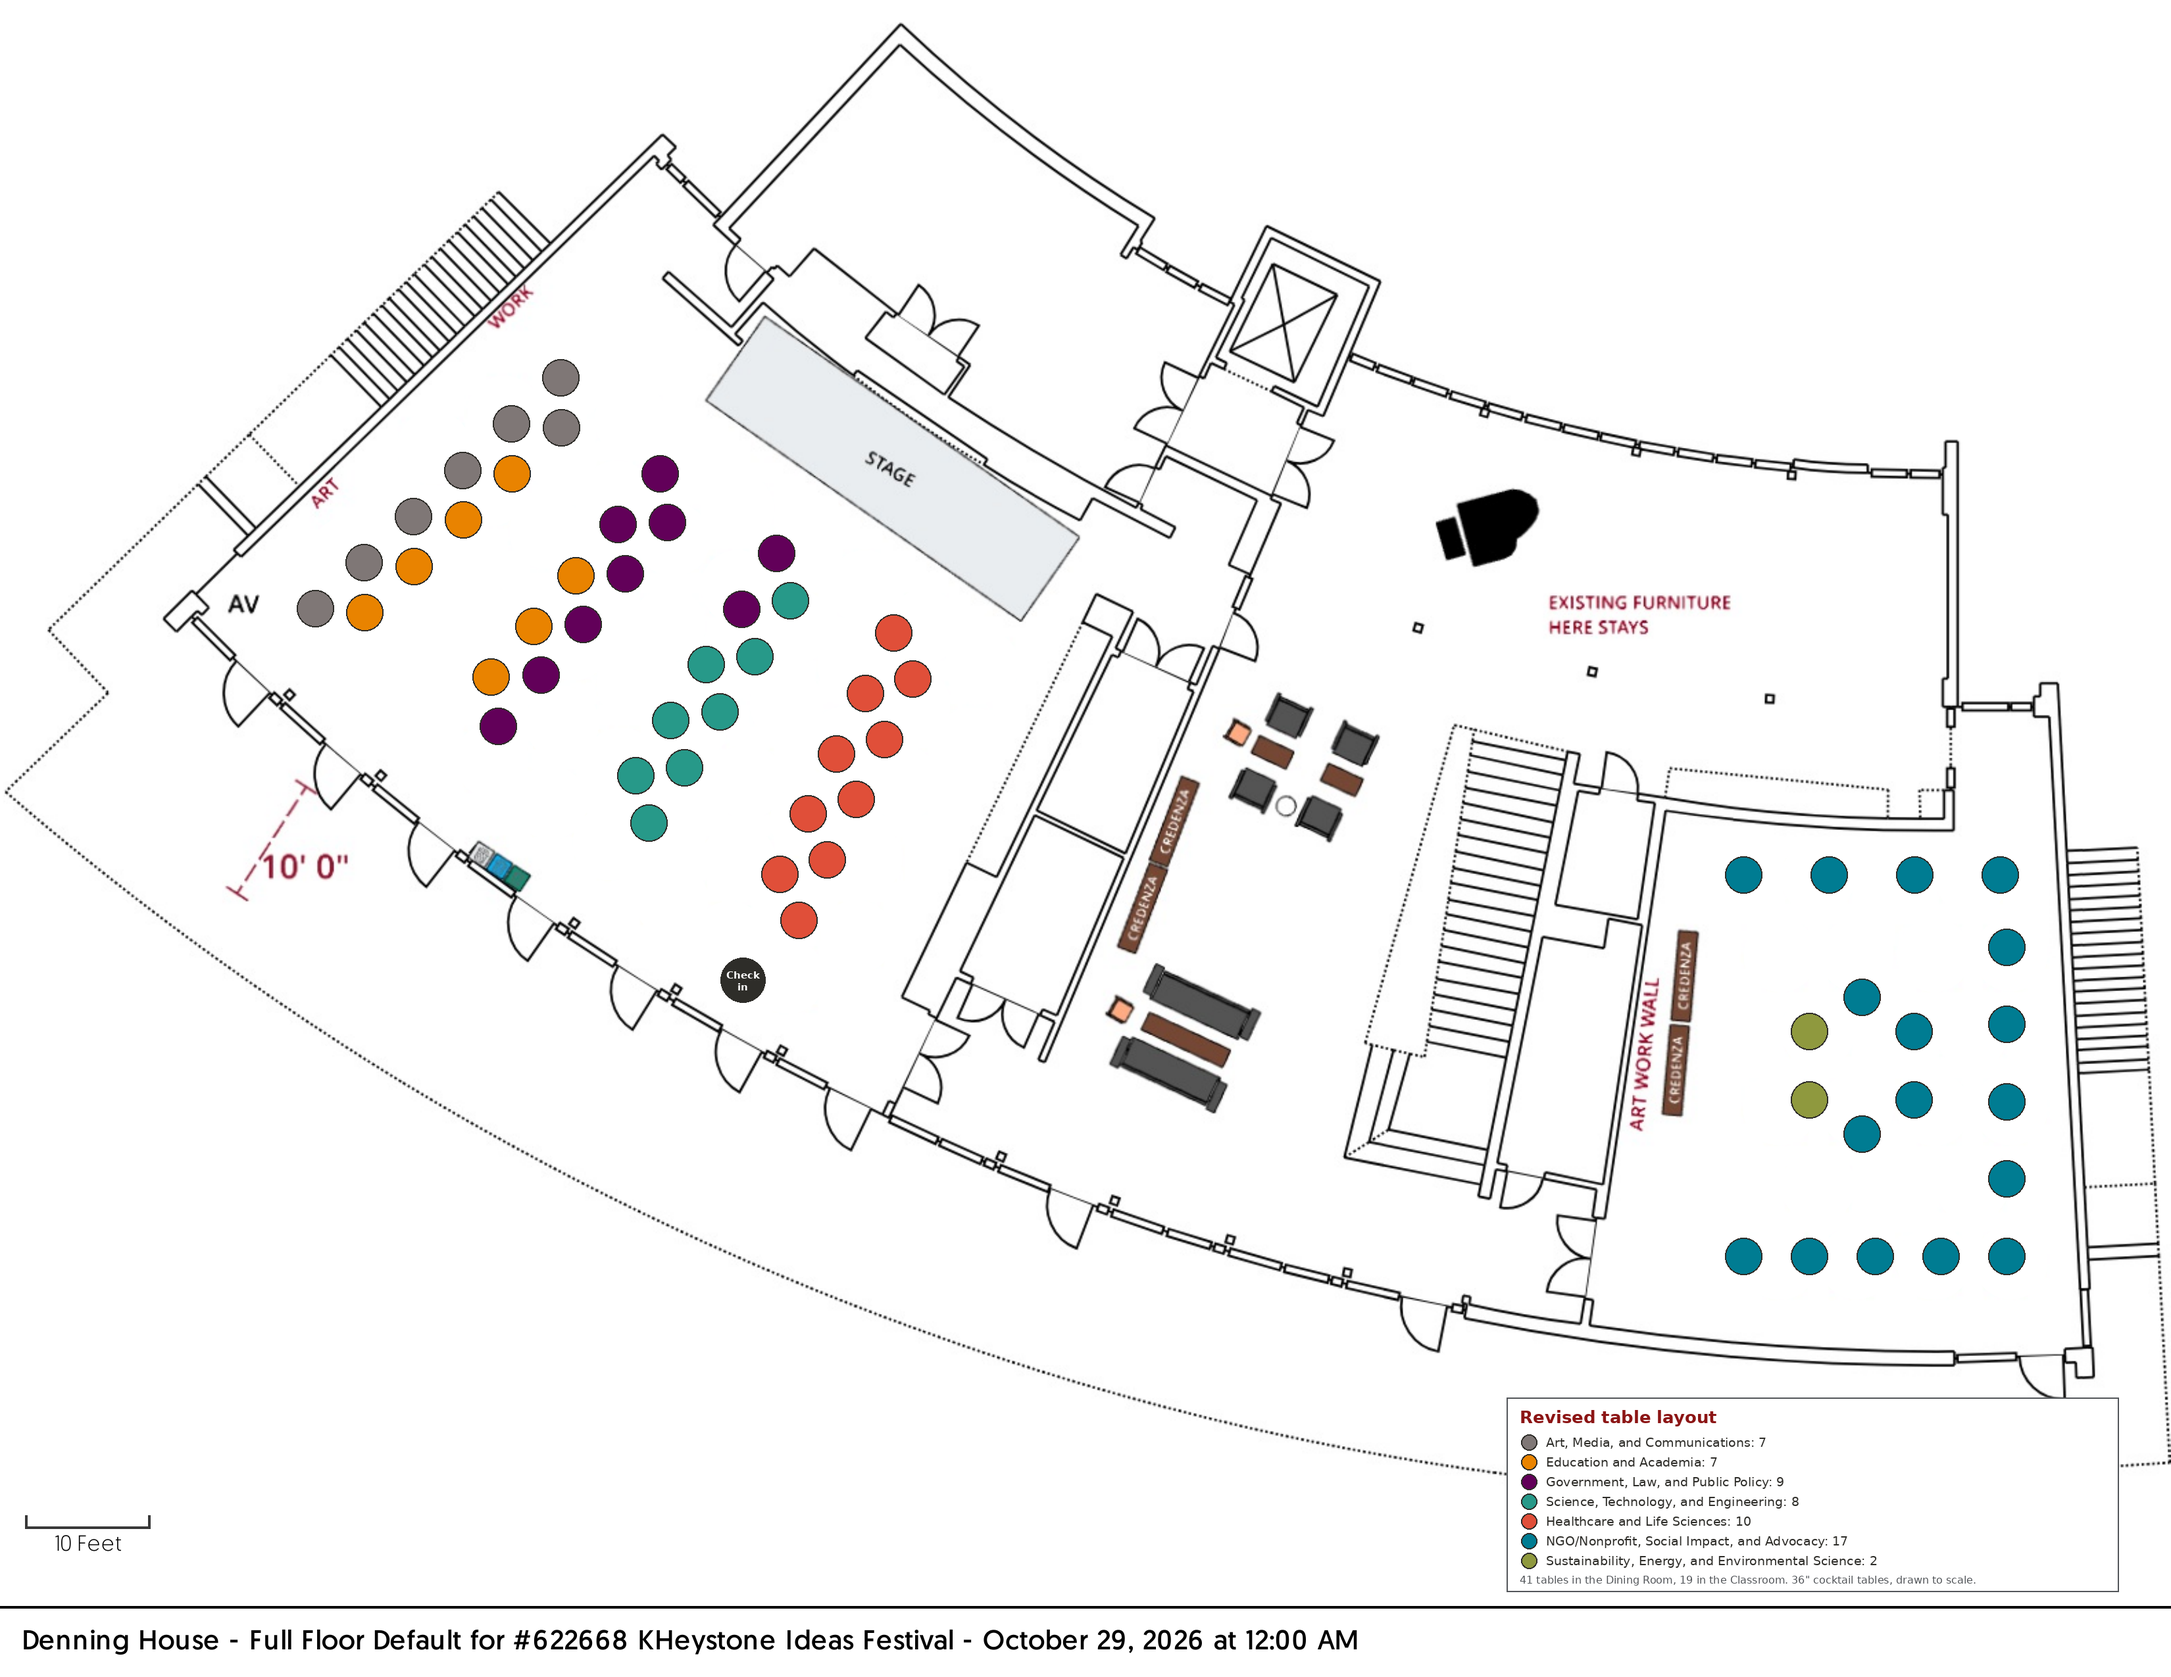
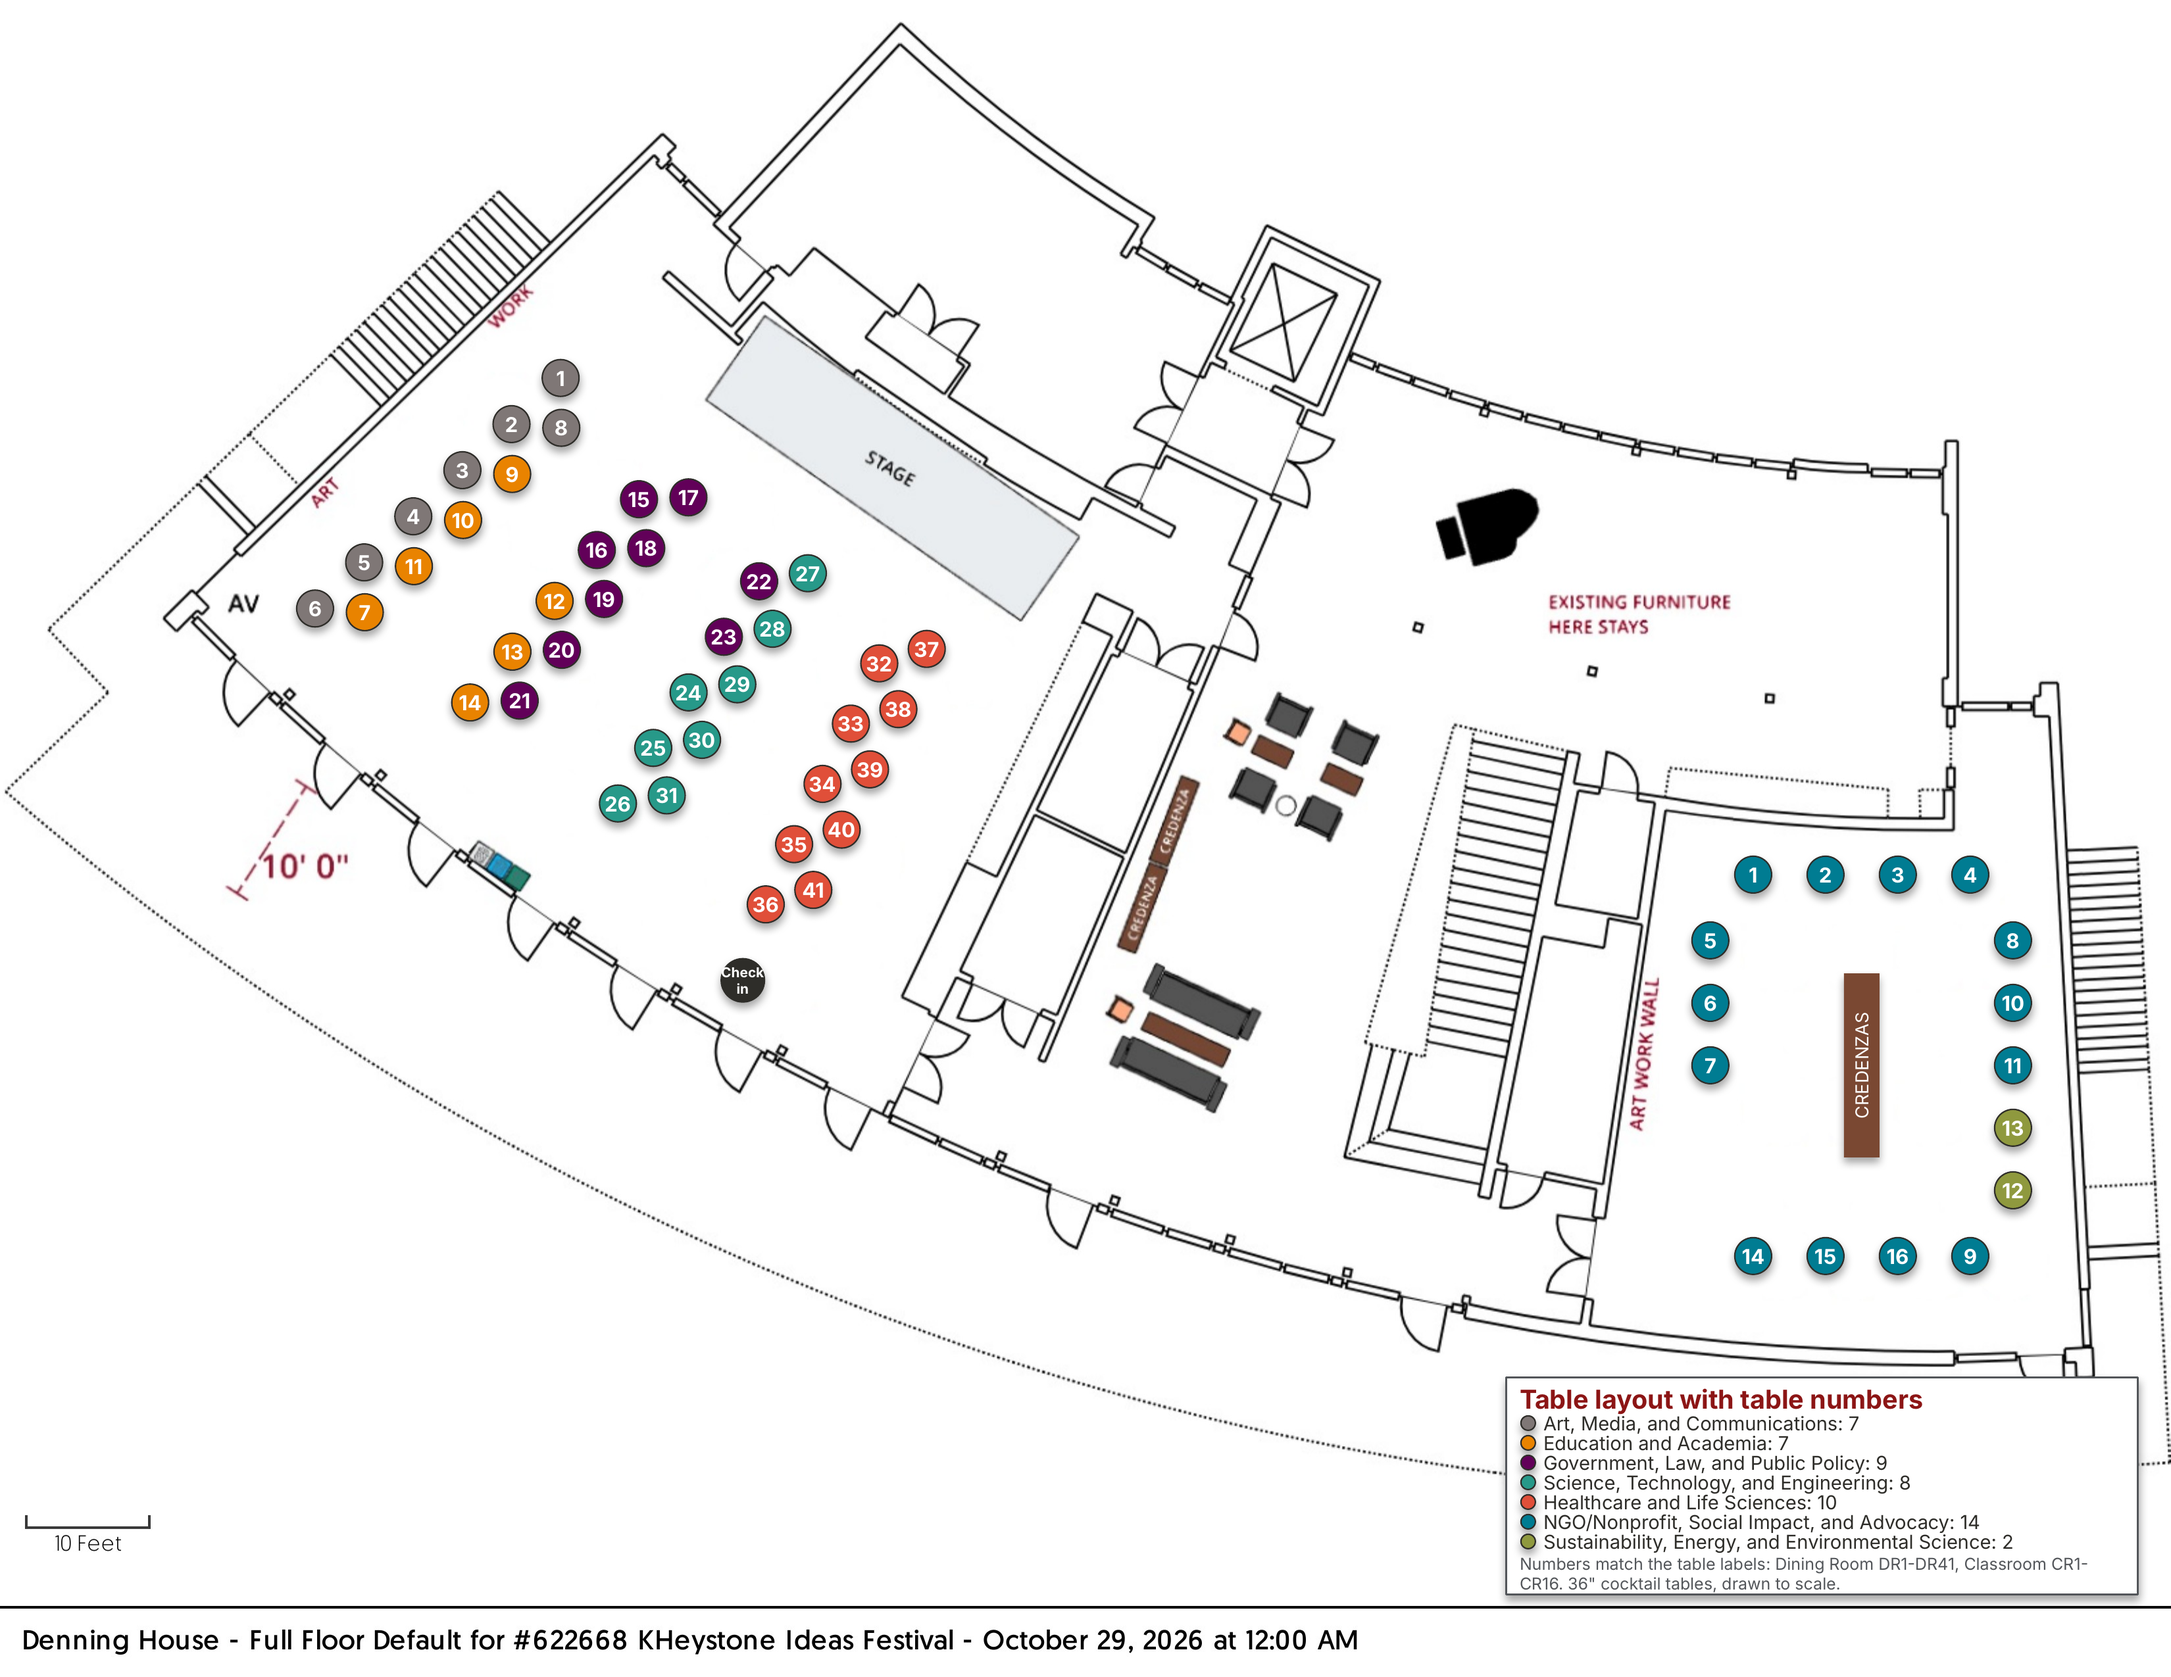
Add files via upload
final table assignments

diff --git a/index.html b/index.html
@@ -128,11 +128,27 @@ article h2{font-family:var(--sans);font-weight:600;font-size:clamp(30px,4.4vw,42
 .legend span{display:inline-flex;gap:8px;align-items:center}
 @media (max-width:560px){body{font-size:16px}main .wrap{padding-block:20px 48px}.jump{gap:0}.jump a,.jump span{min-width:calc(100% / 13);height:36px}.intro{margin-bottom:20px}.lede{font-size:19px}.desc{font-size:17px}.pager{grid-template-columns:1fr}.pager .next{text-align:left}}
 @media (prefers-reduced-motion:no-preference){main{animation:fade .18s ease-out}@keyframes fade{from{opacity:.4}to{opacity:1}}}
-.connect{display:flex;flex-wrap:wrap;align-items:center;gap:10px 16px;margin:18px 0 22px}
-.connect-btn{display:inline-block;background:var(--cardinal);color:#fff!important;text-decoration:none;font-weight:600;font-size:17px;padding:12px 22px;border-radius:6px}
-.connect-btn:hover,.connect-btn:focus-visible{background:#6f1010}
-.connect span{font-size:15px;color:var(--cool-gray);flex:1 1 220px}
-@media (max-width:560px){.connect-btn{display:block;width:100%;text-align:center}}
+.connect{display:flex;flex-wrap:wrap;align-items:center;gap:8px 14px;margin:16px 0 22px}
+.connect-btn{display:inline-flex;align-items:center;gap:8px;color:#fff!important;text-decoration:none;font-weight:700;font-size:15px;line-height:1.2;padding:8px 14px 8px 16px;border-radius:999px;
+  background:linear-gradient(90deg,#007C92,#279989,#E04F39,#E98300,#007C92);background-size:300% 100%;animation:cflow 8s linear infinite;text-shadow:0 1px 1px rgba(0,0,0,.25)}
+.connect-btn svg{width:16px;height:16px;flex:none;animation:cnudge 2.4s ease-in-out infinite}
+.connect-btn:hover{filter:brightness(.92)}
+.connect-btn:focus-visible{outline:3px solid #E98300;outline-offset:2px}
+@keyframes cflow{to{background-position:300% 0}}
+@keyframes cnudge{0%,60%,100%{transform:none}70%{transform:translateX(4px)}80%{transform:none}90%{transform:translateX(3px)}}
+@media (prefers-reduced-motion:reduce){.connect-btn,.connect-btn svg{animation:none}}
+.connect span{font-size:14px;color:var(--cool-gray);flex:1 1 200px}
+.gloss{margin-top:32px}
+.gloss h2{font-size:24px;margin:0 0 4px}
+.gloss h3{font-size:17px;margin:18px 0 8px;color:var(--cool-gray)}
+.gtabs{display:flex;gap:8px;margin:12px 0 14px}
+.gtabs button{font:inherit;font-size:15px;font-weight:600;padding:6px 14px;border-radius:999px;border:1px solid var(--line);background:#fff;color:var(--black);cursor:pointer}
+.gtabs button.on{background:var(--black);color:#fff;border-color:var(--black)}
+.glist{list-style:none;margin:0;padding:0;columns:3 260px;column-gap:28px}
+.glist li{break-inside:avoid;margin:0 0 6px}
+.glist a{display:flex;align-items:baseline;gap:10px;color:var(--black);text-decoration:none;line-height:1.3;padding:3px 0}
+.glist a:hover .tnm{color:var(--cardinal);text-decoration:underline}
+.tno{flex:none;min-width:54px;text-align:center;font-weight:700;font-size:14px;color:#fff;background:var(--cc);border-radius:999px;padding:2px 8px}
 </style>
 </head>
 <body>
@@ -175,6 +191,7 @@ article h2{font-family:var(--sans);font-weight:600;font-size:clamp(30px,4.4vw,42
   const seen = {};
   P.forEach(p=>{ let s=slugify(p.t); if(seen[s]) s+='-'+(++seen[s]); else seen[s]=1; p.id=s; });
   const BY_ID = Object.fromEntries(P.map(p=>[p.id,p]));
+  const STN = {"Backcurrent Innovation": "DR32", "Beyond Combustion: Methane to Materials": "CR12", "Beyond Degrees: Closing the Racial Wealth Gap Through Higher Education": "DR14", "Beyond the Fields: The Lives Behind Our Food": "CR15", "BioSentinel - Biosafety in the age AI": "DR33", "Cards 4 Kids": "DR34", "Clean Closet: Explorations in Affordable, Non-Toxic, Sustainable Fashion": "CR13", "D.Sole Foundation: Diabetic Footcare for Underserved Communities": "CR3", "Deep Cuts": "DR24", "Despegar Fellows": "DR9", "Dialekt": "CR4", "EconStats.org": "DR16", "epidemiKH": "DR36", "Equal Depths": "CR2", "Every Phase: Supporting Mothers Through Change": "DR37", "Exploring Vaccine Hesitancy in the Perinatal Period": "CR5", "Field of View": "DR1", "First Teachers": "DR10", "Global Neurosurgery Collaborative": "CR6", "GOAL @ Stanford: Gyn/Ob Advocacy Lab": "DR38", "Hardening Critical Infrastructure: Lessons from Ukraine": "DR27", "Ideas That Travel": "DR2", "Improving Birth Outcomes through Multiomic and Vaginal Microbiome Profiling": "DR39", "Infrastructure for Her: Advancing Gender-Responsive Mobility in Monterrey, Mexico": "DR15", "Intelligence KHollective": "DR23", "Intersex Community Health Coalition": "DR40", "KHnowledge & Policy": "DR17", "Know Your Water": "DR18", "Learn to Discern: Building Educational Tools to Teach Digitial Literacy Skills in the Age of AI": "CR16", "Life and Career Design for High School Students": "DR11", "Local AI Lab": "DR26", "MedBridge: Building Physician–Scientists in the Americas": "CR7", "Mentorship in Academia Project": "DR12", "Mind Matters: Empowering Teachers for Youth Mental": "DR13", "Neurodiversity Network": "CR1", "Next Play": "DR31", "Ojos del Mar": "CR8", "Post-Status: Migrant Justice in the Era of Delegalization": "CR10", "Project Shire": "DR28", "Rethinking Digital Life": "DR29", "Science Communication with Art and Music (SCAM)": "DR4", "Secure & Local AI for Legal Aid Nonprofits": "DR19", "SHTEM Summer Program (Science and Humanities)": "CR9", "Stanford Carceral Health Advocacy Initiative": "CR11", "Stanford Housing Equity Project": "CR14", "Surge On!: Capacity Building for Reconstructive Surgery in Subsaharan Africa": "DR41", "The AI Trust Stack": "DR20", "The Campus Survivors Project": "DR7", "The Deservedness Project": "DR5", "The Mitigation Project": "DR21", "The Traumatic Injury Collaborative": "DR35", "Through Their Eyes: Pediatric Photography Project": "DR6", "Tiny Pharma": "DR30", "Varieties of Cyborg Experience": "DR8", "vidyoo.ai | A Democratized Data Collection Platform": "DR25", "Warmth Through Words": "DR3", "Who Gets Space?": "DR22"};
   const sortKey = t => t.normalize('NFD').replace(/[\u0300-\u036f]/g,'').toLowerCase();
   const AZ = P.slice().sort((a,b)=>sortKey(a.t).localeCompare(sortKey(b.t)));
   const firstLetter = p => { const c=sortKey(p.t).charAt(0).toUpperCase(); return /[A-Z]/.test(c)?c:'#'; };
@@ -244,6 +261,7 @@ article h2{font-family:var(--sans);font-weight:600;font-size:clamp(30px,4.4vw,42
     const rows=[];
     if(p.p) rows.push(['Project manager', person({...p.p, u:p.u})]);
     if(p.f&&p.f.length) rows.push([p.f.length>1?'Founders':'Founder', p.f.map(f=>person(p.p&&f.n===p.p.n?{...f,u:p.u}:f)).join('')]);
+    if(STN[p.t]) rows.push(['Ideas Festival table', `<a href="#table-map">${esc(STN[p.t])}</a><span class="yr">${STN[p.t].startsWith('DR')?'Dining Room':'Classroom'}</span>`]);
     if(p.e) rows.push(['Established', esc(p.e)]);
     return rows.length?`<dl class="facts">${rows.map(([k,v])=>`<div><dt>${k}</dt><dd>${v}</dd></div>`).join('')}</dl>`:'';
   }
@@ -254,7 +272,7 @@ article h2{font-family:var(--sans);font-weight:600;font-size:clamp(30px,4.4vw,42
         <a class="chip" href="#"><span class="dot" aria-hidden="true"></span>${esc(p.c)}</a>
         <h2>${esc(p.t)}</h2>
         ${p.s?`<p class="lede">${esc(p.s)}</p>`:''}
-        <p class="connect"><a class="connect-btn" href="https://docs.google.com/forms/d/e/1FAIpQLSdd0upfXTFJkC5SKX7fuA5PVN0JAlwXkIegBchWx8dLi4Je-A/viewform?usp=pp_url&entry.173286245=${encodeURIComponent(p.t)}" target="_blank" rel="noopener">Connect with this project</a><span>Interested in mentoring or joining? Share your contact info with the project team.</span></p>
+        <p class="connect"><a class="connect-btn" href="https://docs.google.com/forms/d/e/1FAIpQLSdd0upfXTFJkC5SKX7fuA5PVN0JAlwXkIegBchWx8dLi4Je-A/viewform?usp=pp_url&entry.173286245=${encodeURIComponent(p.t)}" target="_blank" rel="noopener">Connect with this project <svg viewBox="0 0 16 16" fill="none" stroke="currentColor" stroke-width="2" stroke-linecap="round" stroke-linejoin="round" aria-hidden="true"><path d="M3 8h9M8.5 4.5 12 8l-3.5 3.5"/></svg></a><span>Mentor, join, or partner with the team.</span></p>
         ${facts(p)}
         ${p.d?`<p class="label">About the project</p><div class="desc">${paras(p.d)}</div>`:''}
         ${p.n?`<p class="label">Skills the team is looking for</p><div class="desc">${paras(p.n)}</div>`:''}
@@ -262,13 +280,31 @@ article h2{font-family:var(--sans);font-weight:600;font-size:clamp(30px,4.4vw,42
       </article>
       <nav class="pager" aria-label="More projects">${prev?`<a href="#${prev.id}"><small>Previous</small><span>${esc(prev.t)}</span></a>`:'<span></span>'}${next?`<a class="next" href="#${next.id}"><small>Next</small><span>${esc(next.t)}</span></a>`:''}</nav>`;
   }
+
+  function glossary(){
+    const items=AZ.filter(p=>STN[p.t]);
+    const num=s=>(s.startsWith('DR')?0:1000)+parseInt(s.slice(2));
+    const li=p=>`<li><a href="#${p.id}"><span class="tno" style="--cc:${cc(p.c)}">${esc(STN[p.t])}</span><span class="tnm">${esc(p.t)}</span></a></li>`;
+    const byRoom=(pre)=>items.filter(p=>STN[p.t].startsWith(pre)).sort((a,b)=>num(STN[a.t])-num(STN[b.t]));
+    return `<section class="gloss"><h2>Find a table</h2><p class="note">${items.length} project tables. Select a project to open its page.</p>
+      <div class="gtabs" role="tablist"><button type="button" class="on" data-g="az">A to Z</button><button type="button" data-g="num">By table number</button></div>
+      <div data-gv="az"><ul class="glist">${items.map(li).join('')}</ul></div>
+      <div data-gv="num" hidden><h3>Dining Room</h3><ul class="glist">${byRoom('DR').map(li).join('')}</ul><h3>Classroom</h3><ul class="glist">${byRoom('CR').map(li).join('')}</ul></div></section>`;
+  }
+  function wireGloss(){
+    document.querySelectorAll('.gtabs button').forEach(b=>b.addEventListener('click',()=>{
+      document.querySelectorAll('.gtabs button').forEach(x=>x.classList.toggle('on',x===b));
+      document.querySelectorAll('[data-gv]').forEach(v=>v.hidden=v.dataset.gv!==b.dataset.g);
+    }));
+  }
   function renderMap(){
     // Standalone version: the map is the file "table-map.png" in the same folder as this page.
     // To update it, replace that file. If it's missing, the page shows "coming soon".
     const legend = `<div class="legend">${CAT_ORDER.map(c=>`<span><i class="dot" style="--cc:${cc(c)}"></i>${esc(c)}</span>`).join('')}</div>`;
-    view.innerHTML = `<div class="mapbox"><img src="table-map.png" alt="Table map for the KHeystone Ideas Festival at Denning House, showing project tables by category" id="mapimg">${legend}</div>`;
+    view.innerHTML = `<div class="mapbox"><img src="table-map.png" alt="Table map for the KHeystone Ideas Festival at Denning House, showing project tables by category" id="mapimg">${legend}</div>${glossary()}`;
+    wireGloss();
     const img=document.getElementById('mapimg');
-    img.addEventListener('error',()=>{ view.innerHTML=`<div class="empty"><strong>Table map coming soon</strong>The map of project tables will be posted here before the Ideas Festival.</div>`; });
+    img.addEventListener('error',()=>{ document.querySelector('.mapbox').outerHTML=`<div class="empty"><strong>Table map coming soon</strong>The map of project tables will be posted here before the Ideas Festival.</div>`; });
   }
   function route(){
     const h = decodeURIComponent(location.hash.replace(/^#/,''));

diff --git a/by-the-numbers.html b/by-the-numbers.html
@@ -126,7 +126,7 @@ footer .wrap{padding-block:18px 28px}
     <p class="back"><a href="index.html">KHeystone Project Directory</a></p>
     <p class="mark"><a href="https://kh.stanford.edu" target="_blank" rel="noopener"><span class="su">Stanford</span> <span>Knight-Hennessy Scholars</span></a></p>
     <h1>2026-27 <span class="kp" id="kp">KHeystone Projects</span> by the numbers <span class="sofar">(so far)</span></h1>
-    <div class="meta"><span class="y7">Year 7 <span>· since 2020-21</span></span><p class="asof">As of October 28, 2026, the day before the Ideas Festival</p></div>
+    <div class="meta"><span class="y7">Year 7 <span>· since 2021</span></span><p class="asof">As of October 28, 2026, the day before the Ideas Festival</p></div>
   </div>
 </header>
 
@@ -204,7 +204,7 @@ footer .wrap{padding-block:18px 28px}
 
     <section class="rise" style="animation-delay:.42s">
       <h2>KHeystone Projects by year</h2>
-      <p class="scope">7 years of KHeystone Projects, from 2020-21 to 2026-27.</p>
+      <p class="scope">KHeystone Projects began in 2021, so 2026-27 is the program's 7th year.</p>
       <div class="cols" id="growth" role="img" aria-label="KHeystone Projects by year: 2020-21, 13; 2021-22, 18; 2022-23, 21; 2023-24, 31 (projects presented at the end-of-year showcase); 2024-25, 35; 2025-26, 63; 2026-27, 73 (ideas submitted)"></div>
       <p class="note">Lighter bars (2020-21 to 2023-24) show projects that presented at the end-of-year showcase, since showcase participation is the most complete record we have for those years. From 2024-25 on, bars show ideas submitted each autumn. This year's 73 submissions became 71 projects.</p>
     </section>
